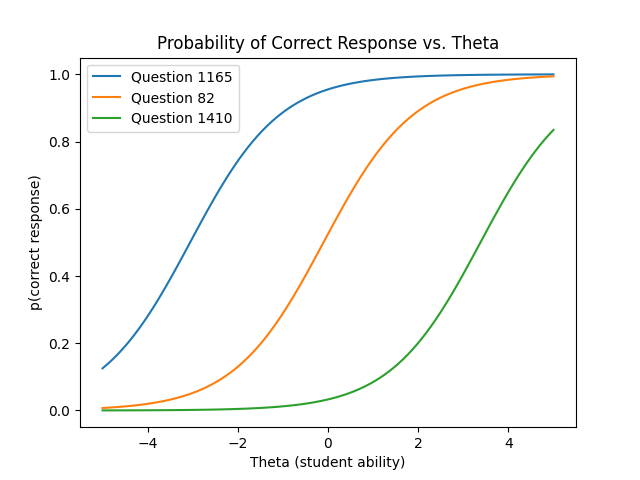
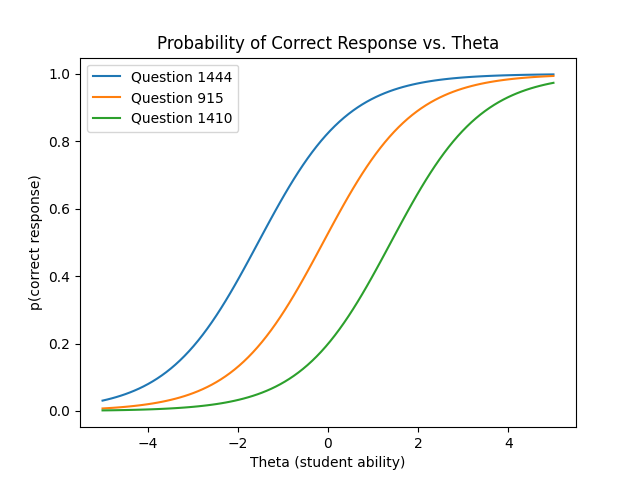
Update IRT

diff --git a/item_response.py b/item_response.py
@@ -151,7 +151,10 @@ def main():
     # Tune learning rate and number of iterations. With the implemented #
     # code, report the validation and test accuracy.                    #
     #####################################################################
-    lr = 0.01
+    # Hyperparameters selected via grid search over
+    # lr in {0.001, 0.005, 0.01, 0.05} x iterations in {50, 100, 150, 200},
+    # choosing the combination with the highest validation accuracy.
+    lr = 0.001
     iterations = 150
 
     theta, beta, val_acc_lst, train_nllk_lst, val_nllk_lst = irt(
